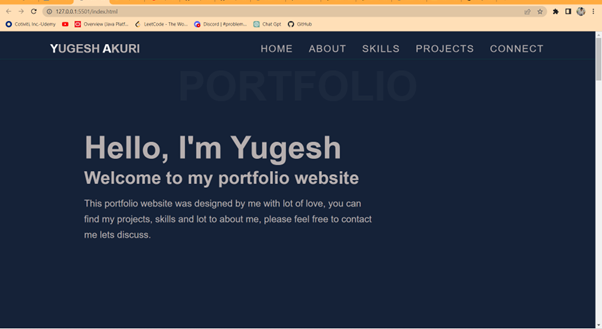
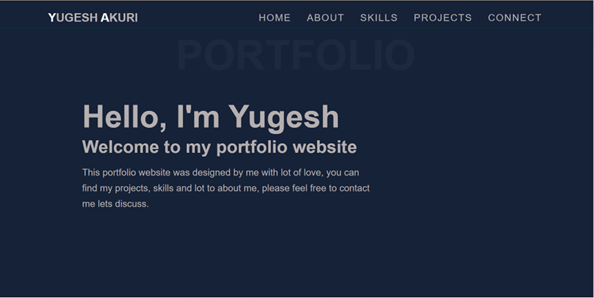
project updated

Changed region(s): [[0.0, 0.0, 1.0, 1.0], [0.1212, 0.3322, 0.6364, 0.7248]]

diff --git a/index.html b/index.html
@@ -67,15 +67,38 @@
       <div class="welcome-header">
         <h1>Portfolio</h1>
       </div>
-      <div class="welcome container">
+      <div class="welcome">
         <div class="intro">
-          <h1>Hello, I'm <span>Yugesh</span></h1>
-          <h2>Welcome to my portfolio website</h2>
-          <p>
-            This portfolio website was designed by me with lot of love, you can
-            find my projects, skills and lot to about me, please feel free to
-            contact me lets discuss.
-          </p>
+          <div class="intro-text">
+
+            <h1>Hello, I'm <span>Yugesh</span></h1>
+            <h2>Welcome to my portfolio website</h2>
+            <p>
+              This portfolio website was designed by me with lot of love, you can
+              find my projects, skills and lot to about me, please feel free to
+              contact me lets discuss.
+            </p>
+          </div>
+          <div class="intro-img">\
+
+            <img src="images/person-sitting.png" alt="person sitting" width="500px">
+          </div>
+        </div>
+        <div class="img-section">
+          
+          <div class="left-img-box">
+            <div class="left-img">
+              <img src="images/person-thinking.png" alt="person thinking" width="200px" height="200px">
+            </div>
+            <p>What is Portfolio Website?</p>
+          </div>
+          <div class="right-img-box">
+            <p>A portfolio website is a unique way to showcase your work and let others know about yourself. It's like an evergreen platform for your projects, case studies, and information about you. In addition, it's one of the best ways to express your personality, experience, and capabilities.</p>
+            <div class="right-img">
+              <img src="images/person-answering.png" alt="person answering" width="200px" height="200px">
+            </div>
+          </div>
+        </div>
         </div>
       <!-- <hr class="hr-break" /> -->
     </section>
@@ -118,7 +141,7 @@
               JavaScript. I have designed this to showcase my personal works and skills and you will get more details about me. I have used HTML5 for adding heading pagraphs, used CSS3 for designing the website and finally used JavaScript for the dynaminc behaviour of the website.
             </p>
             <h4><strong>Skill Set:</strong>  HTML, CSS, JavaScript</h4>
-            <a class="project-btn" href="https://github.com/yugesh-akuri">source code</a>
+            <a class="project-btn" href="https://github.com/yugesh-akuri/portfolio-website">source code</a>
           </div>
         </div>
         <div class="project-item2">
@@ -226,7 +249,7 @@
               Spring Boot, Angular and Mysql. This is web application where we can host it over the internet. The website acts as a database management system in which you can get the data from the backend, you can update the details from UI itself, you can add new employee details and also you can delete a employee information. It will perform the CRUD operations. To design the backend I have used java, Spring Boot, MySQL and to design the UI I have used Angualr framework which also contains HTML, CSS, TypeScript, Bootstrap.
             </p>
             <h4><strong>Skills Set:</strong> Java, Spring Boot, Angular, MySQL, Tomacat, Maven</h4>
-            <a class="project-btn" href="https://github.com/yugesh-akuri">source code</a>
+            <a class="project-btn" href="https://github.com/yugesh-akuri/springboot-project">source code</a>
           </div>
         </div>
       </div>
@@ -245,47 +268,37 @@
           <div>
             <p class="features-title"><strong>Hard Working</strong></p>
             <p class="features-text">
-              Lorem ipsum dolor sit amet consectetur adipisicing elit. Repellendus dolorem repudiandae quae, deleniti assumenda possimus id ipsam delectus culpa nesciunt nam non error harum facere vitae placeat! Facere, officia inventore?
+              Success is not possible without hard work. I believe in working hard to achieve something in life. I wanted to work hard on my skills so that I can keep on improving.  
             </p>
           </div>
           <div>
-            <p class="features-title"><strong>Hard Working</strong></p>
+            <p class="features-title"><strong>Team Player</strong></p>
             <p class="features-text">
-              Lorem ipsum dolor sit amet consectetur adipisicing elit.
-              Doloremque, illo ipsam quia a magni odio similique possimus fuga
-              quos quibusdam.
+              I am good team player where I can actively contribute to my group in completing complex tasks, meeting new goals or managing projects. 
             </p>
           </div>
           <div>
-            <p class="features-title"><strong>Hard Working</strong></p>
+            <p class="features-title"><strong>Problem Solver</strong></p>
             <p class="features-text">
-              Lorem ipsum dolor sit amet consectetur adipisicing elit.
-              Doloremque, illo ipsam quia a magni odio similique possimus fuga
-              quos quibusdam.
+              A problem can be solved by considering the problem definition, what is the approach, evaluating alternatives and then implementing the most viable solutions.
             </p>
           </div>
           <div>
-            <p class="features-title"><strong>Hard Working</strong></p>
+            <p class="features-title"><strong>Leadership Qualities</strong></p>
             <p class="features-text">
-              Lorem ipsum dolor sit amet consectetur adipisicing elit.
-              Doloremque, illo ipsam quia a magni odio similique possimus fuga
-              quos quibusdam.
+              A good leader will have the integrity, self-awareness, courage, respect, empathy and gratitude. I have lerned them in my school and colleges.
             </p>
           </div>
           <div>
-            <p class="features-title"><strong>Hard Working</strong></p>
+            <p class="features-title"><strong>Honesty</strong></p>
             <p class="features-text">
-              Lorem ipsum dolor sit amet consectetur adipisicing elit.
-              Doloremque, illo ipsam quia a magni odio similique possimus fuga
-              quos quibusdam.
+              When you are working with a team or a client being honest is important. Because truth can't be hidden for a long time and believe in being honest to the maximum of my knowledge.
             </p>
           </div>
           <div>
-            <p class="features-title"><strong>Hard Working</strong></p>
+            <p class="features-title"><strong>Self Learner</strong></p>
             <p class="features-text">
-              Lorem ipsum dolor sit amet consectetur adipisicing elit.
-              Doloremque, illo ipsam quia a magni odio similique possimus fuga
-              quos quibusdam.
+              learning is the most important thing in our lives, when learn them on your own with your own experiences that can't be forgotten. I would like to learn on my own which gives me a lot of confidence.
             </p>
           </div>
           <div class="skills-list">

diff --git a/style.css b/style.css
@@ -156,6 +156,7 @@ ul li {
 #welcome .welcome {
   max-width: 1200px;
   margin: 0 auto;
+  margin-bottom: 300px;
   padding: 0 50px;
   justify-content: space-between;
   color: #b6afaf;
@@ -174,8 +175,9 @@ ul li {
 }
 
 .intro {
+  display: flex;
   align-self: baseline;
-  padding: 50px 5px 5px 5px;
+  padding: 5px 5px 5px 5px;
 }
 
 #welcome .intro h1 {
@@ -198,9 +200,28 @@ ul li {
   line-height: 40px;
 }
 
-svg:not(:root) {
-  overflow-clip-margin: content-box;
-  overflow: hidden;
+.img-section {
+  display: flex;
+  position: absolute;
+  align-items: center;
+  justify-content: space-between;
+  margin-top: 50px;
+}
+
+.left-img-box {
+  display: flex;
+  width: 500px;
+  text-align: end;
+  font-size: 20px;
+}
+
+.right-img-box {
+  margin-left: 20px;
+  display: flex;
+  width: 700px;
+  text-align: left;
+  font-size: 20px;
+  line-height: 25px;
 }
 
 /* End welcome */
@@ -228,6 +249,11 @@ svg:not(:root) {
   width: 400px;
   height: 800px;
   padding: 5px 5px 5px 5px;
+  transition: 0.5s ease;
+}
+
+.project-item1:hover {
+  transform: scale(1.1);
 }
 
 .project-item2 {
@@ -238,6 +264,11 @@ svg:not(:root) {
   width: 400px;
   height: 800px;
   padding: 5px 5px 5px 5px;
+  transition: 0.5s ease;
+}
+
+.project-item2:hover {
+  transform: scale(1.1);
 }
 
 .project-item3 {
@@ -248,6 +279,11 @@ svg:not(:root) {
   width: 400px;
   height: 830px;
   padding: 5px 5px 5px 5px;
+  transition: 0.5s ease;
+}
+
+.project-item3:hover {
+  transform: scale(1.1);
 }
 
 .project-item4 {
@@ -258,6 +294,11 @@ svg:not(:root) {
   width: 400px;
   height: 1020px;
   padding: 5px 5px 5px 5px;
+  transition: 0.5s ease;
+}
+
+.project-item4:hover {
+  transform: scale(1.1);
 }
 
 .project-info h1 {
@@ -355,6 +396,11 @@ svg:not(:root) {
   box-shadow: rgba(80, 78, 78, 0.5) 3px 3px 25px;
   padding: 5px;
   height: 300px;
+  transition: 1s ease;
+}
+
+.skills-box:hover {
+  transform: scale(1.5);
 }
 
 .skills-head {
@@ -467,9 +513,6 @@ svg:not(:root) {
 }
 
 #connect .contact-item:hover {
-  border: 5px solid #152238;
-  border-radius: 50%;
-  background-color: #152238;
   box-shadow: #504e4e80 3px 2px 25px;
 }
 
